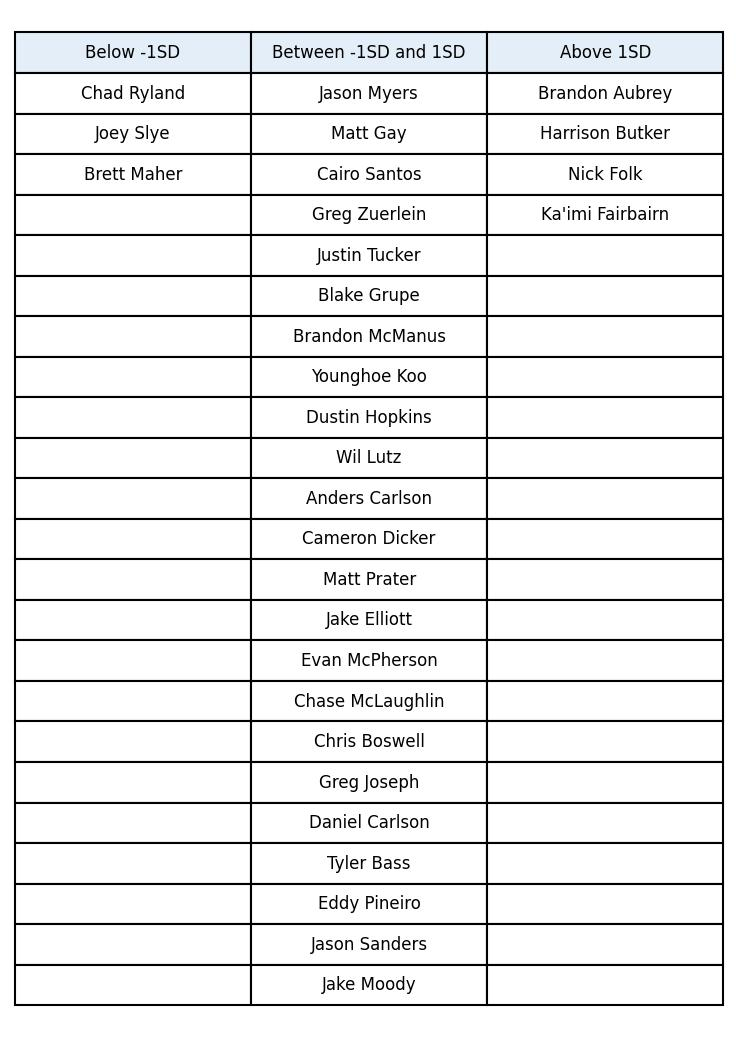
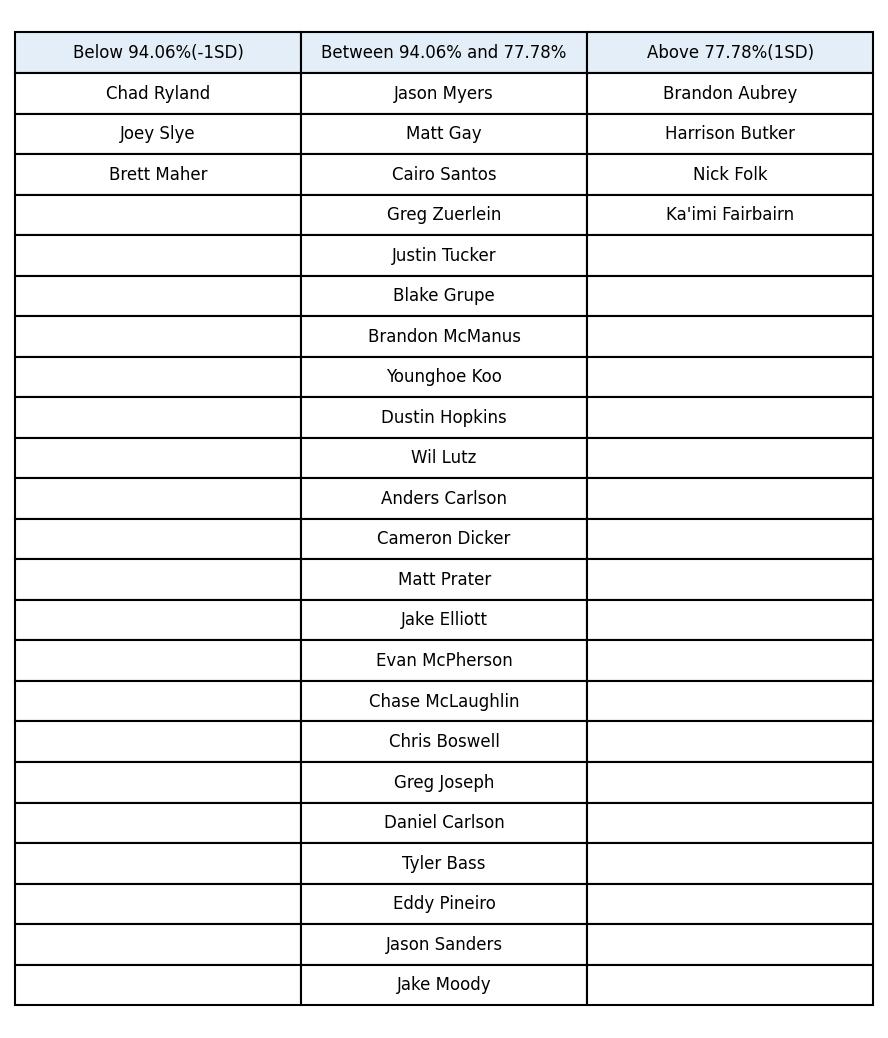
reformats graphs to show more appropriate data

diff --git a/calculations.py b/calculations.py
@@ -4,7 +4,13 @@ from graphs import *
 
 
 def calculations(data):
+    """ First we will calculate below average,average, and above average kickers. We will use total FG percentage and
+    -1 and 1 Standard Deviation to perform this calculation."""
     FieldGoalPercentage_Total(data)
+    """Now we will use box plots to determine if any of the below or above average kickers are outliers when compared
+    to the rest of the data"""
+    #insert place holder here
+    """"This function determines averages for each of the 5 distance ranges. 0-19, 20-29, 30-39, 40-49 and 50+."""
     PercentageMadeByDistance(data)
 
 
@@ -17,15 +23,15 @@ def FieldGoalPercentage_Total(data):
     Good_kickers, good_percentage, Bottom_bar, Top_bar, GoodKickersList = SD_Spread(data, FGAvg, FGSD)
     Elite_kickers, elite_percentage, EliteKickersList = BeatTheSpread(data, Top_bar)
     Poor_kickers, poor_percentage, PoorKickersList = NotBeatTheSpread(data, Bottom_bar)
-    tableData = KickerPerformanceNameList(PoorKickersList, GoodKickersList, EliteKickersList)
+    tableData = KickerPerformanceNameList(PoorKickersList, GoodKickersList, EliteKickersList, Top_bar, Bottom_bar)
     kickerNameTable(tableData)
-    NumbersData = {f'Field Goal Percentages < {Bottom_bar}% (-1SD)': Poor_kickers,
-                   f'Field Goal Percentages between {Bottom_bar}% (-1SD) and {Top_bar}% (1SD)': Good_kickers,
-                   f'Field Goal Percentages > {Top_bar}% (1SD)': Elite_kickers}
+    NumbersData = {f'Below Average (< {Bottom_bar}% (-1SD))': Poor_kickers,
+                   f'Average ({Bottom_bar}% (-1SD) and {Top_bar}% (1SD))': Good_kickers,
+                   f'Above Average > ({Top_bar}% (1SD))': Elite_kickers}
     kickerSDgraph(NumbersData)
-    PercentageData = {f'Field Goal Percentages < {Bottom_bar}% (-1SD)': poor_percentage,
-                      f'Field Goal Percentages between {Bottom_bar}% (-1SD) and {Top_bar}% (1SD)': good_percentage,
-                      f'Field Goal Percentages > {Top_bar}% (1SD)': elite_percentage}
+    PercentageData = {f'Below Average (< {Bottom_bar}% (-1SD))': poor_percentage,
+                      f'Average ({Bottom_bar}% (-1SD) and {Top_bar}% (1SD))': good_percentage,
+                      f'Above Average (> {Top_bar}% (1SD))': elite_percentage}
     kickersSDgraphPercentage(PercentageData)
     statement = f'Across the league, NFL kickers were successful with kicking Field Goals {FGAvg}% of the time. The ' \
                 f'Average NFL kicker was successful between {Bottom_bar}% and {Top_bar}% on Field Goal Attempts. {Poor_kickers} kickers ({poor_percentage}%) performed below ' \
@@ -35,6 +41,10 @@ def FieldGoalPercentage_Total(data):
 
     # print(poor_percentage, elite_percentage, good_percentage)  # these add up to 100%
     # make a histogram of overall make percentage
+
+def FieldGoalTotal_Outliers(data):
+
+
 
     """This function is responsible for taking the data, finding the average for each of the distances(0-19), (20-29), 
     (30-39), (40-49), and (50+). WWe will graph this data later."""

diff --git a/graphs.py b/graphs.py
@@ -12,7 +12,6 @@ def kickerSDgraph(data):
     fig = plt.figure(figsize=(15, 10))
     bar_colors = ['tab:red', 'tab:blue', 'tab:green']
     plt.bar(SDcalculations, values, color=bar_colors, width=0.4)
-    plt.xlabel("Kicking Categories")
     plt.ylabel("Number of Kickers")
     plt.title("Kickers Field Goal Percentages Compared to -1 and 1 Standard Deviation")
     plt.savefig("Graphs/TotalFieldGoalSDComparison.jpg")
@@ -39,7 +38,7 @@ def kickerNameTable(data):
     column_header = data.pop(0)
     plt.figure(linewidth=2,
                tight_layout={'pad': 1},
-               figsize=(5, 7),
+               figsize=(6, 7),
                dpi=150
                )
     ccolors = plt.cm.Blues(np.full(len(column_header), 0.1))

diff --git a/FGPercentageStats.py b/FGPercentageStats.py
@@ -89,10 +89,10 @@ def NotBeatTheSpread(data, Bottom_bar):
 """This function creates a list of list with all the names for each kickers in each category to be used in a table"""
 
 
-def KickerPerformanceNameList(PoorKickersList, GoodKickersList, EliteKickersList):
+def KickerPerformanceNameList(PoorKickersList, GoodKickersList, EliteKickersList, Bottom_bar, Top_bar):
     kickerList = [PoorKickersList, GoodKickersList, EliteKickersList]
     table = [
-        ['Below -1SD', 'Between -1SD and 1SD', 'Above 1SD']
+        [f'Below {Bottom_bar}%(-1SD)', f'Between {Bottom_bar}% and {Top_bar}%', f'Above {Top_bar}%(1SD)']
     ]
     loops = 0
     row = 0
